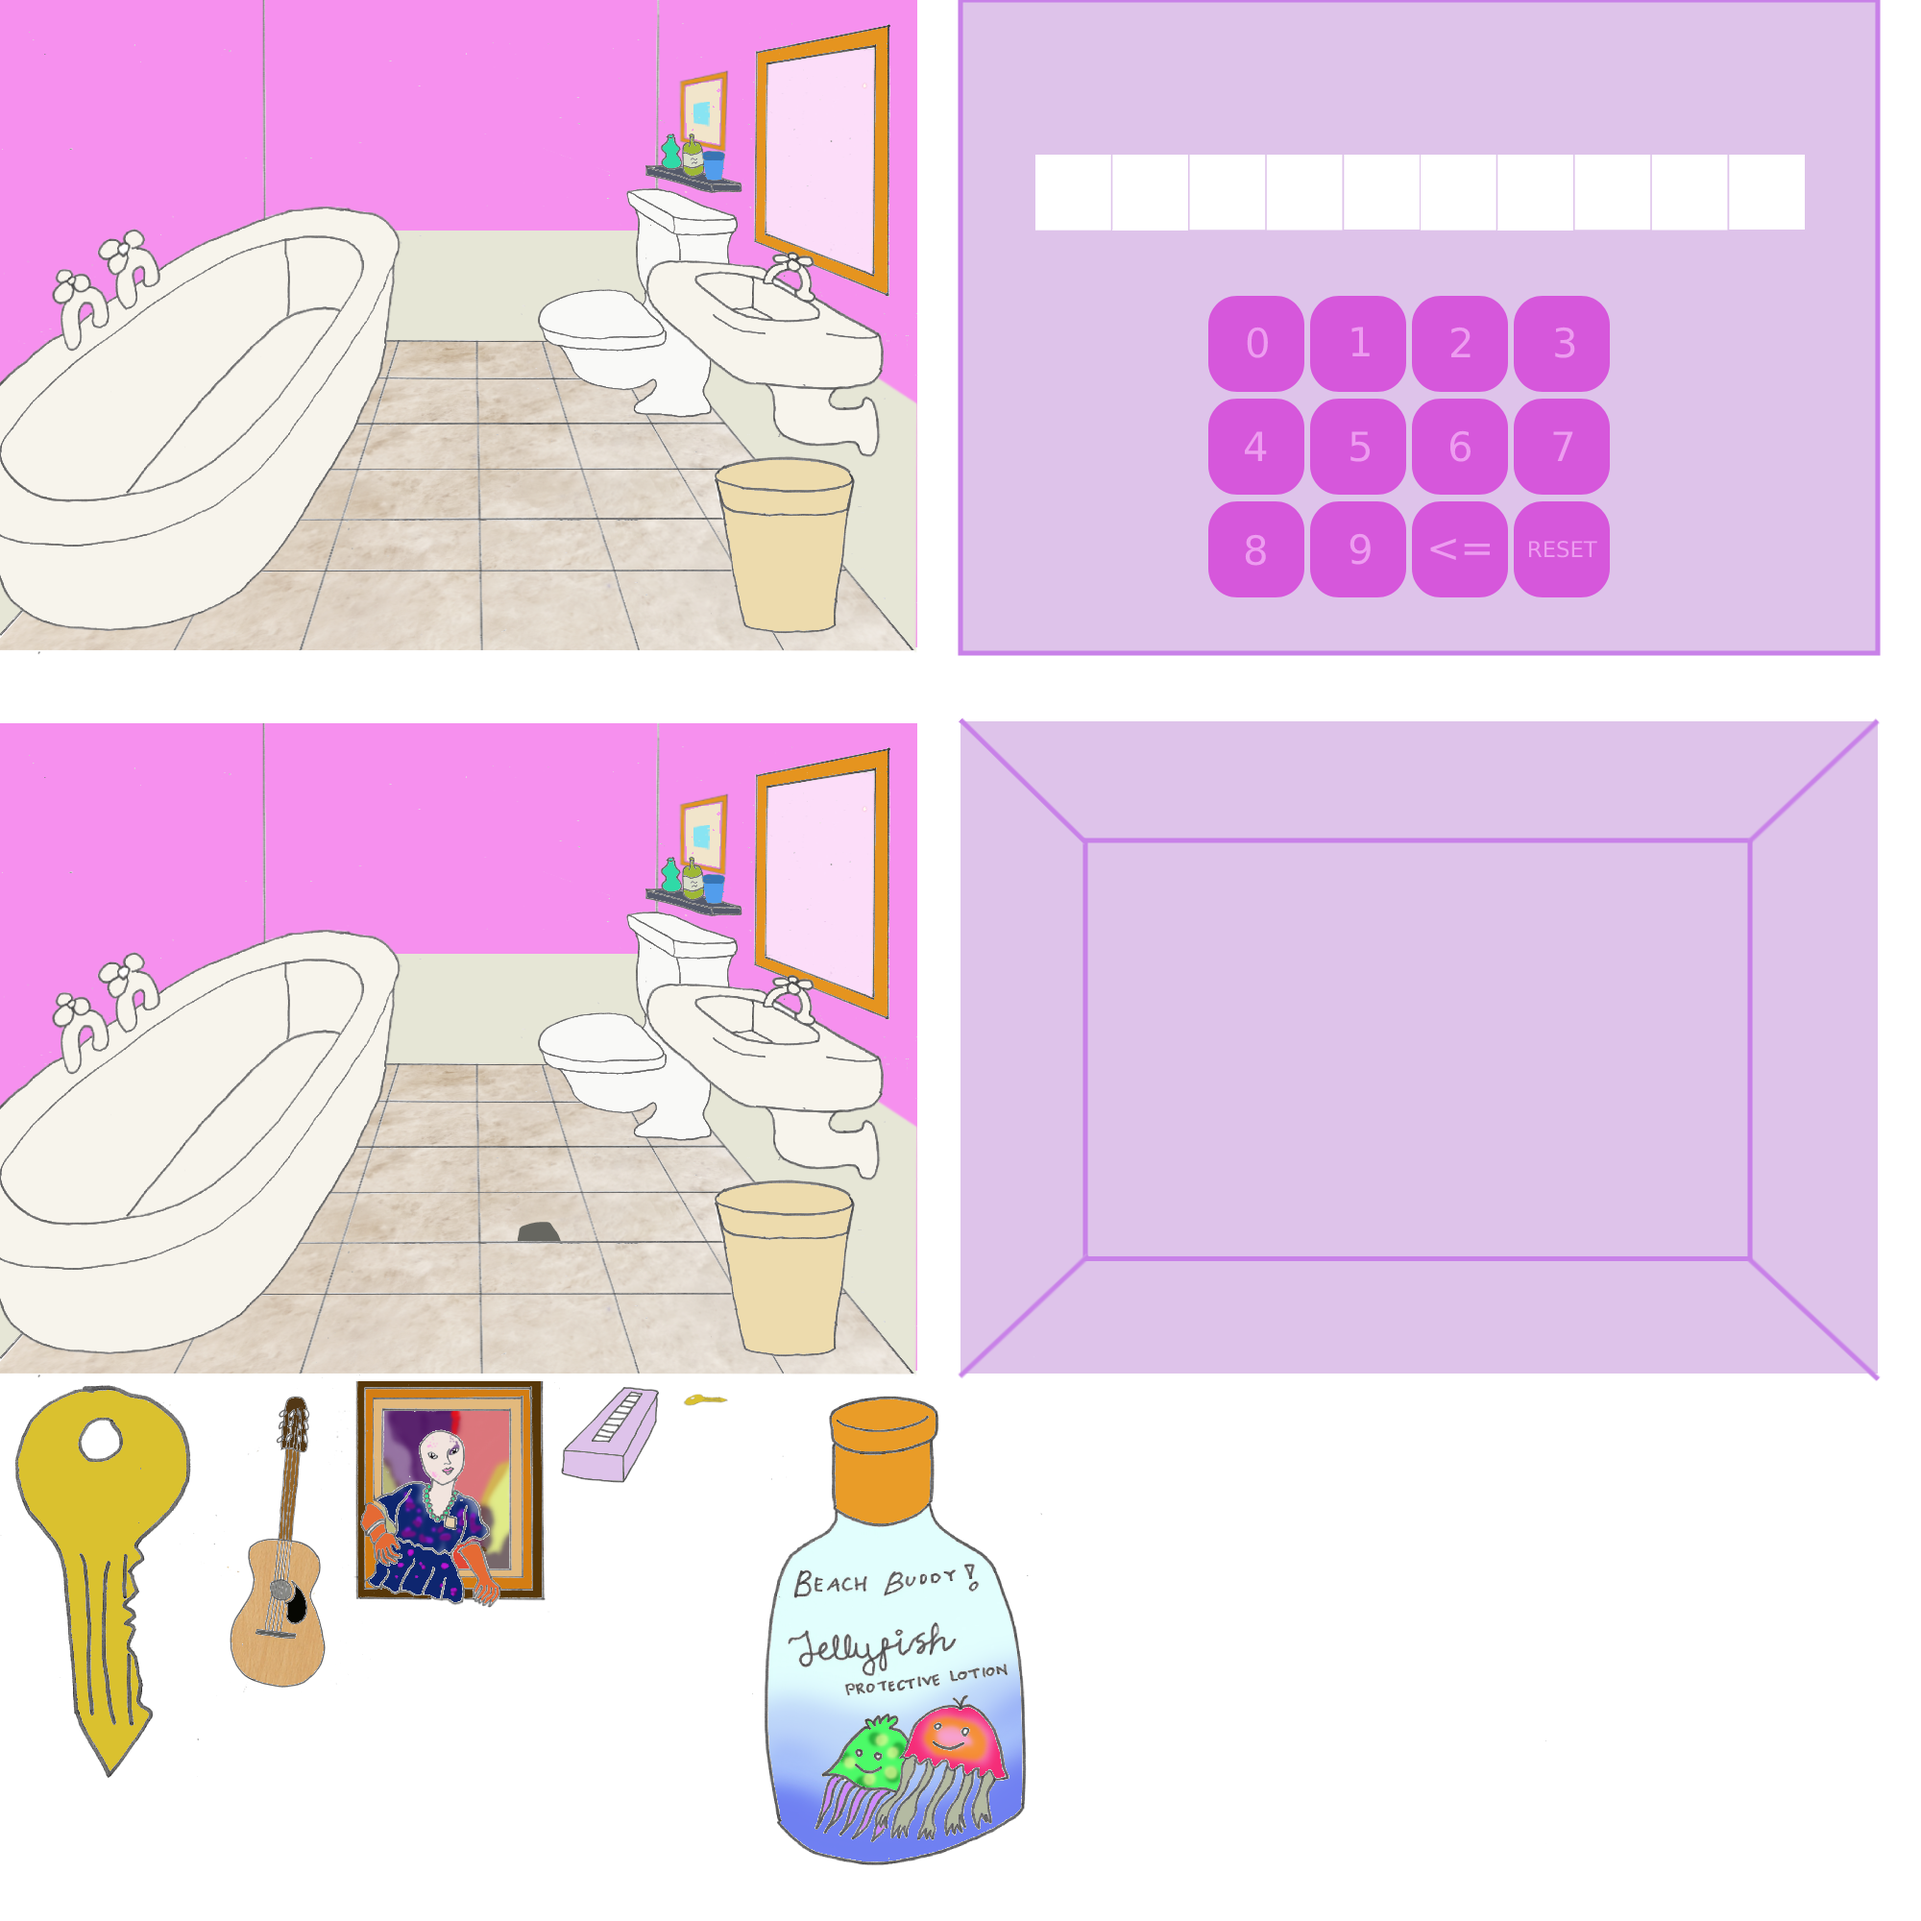
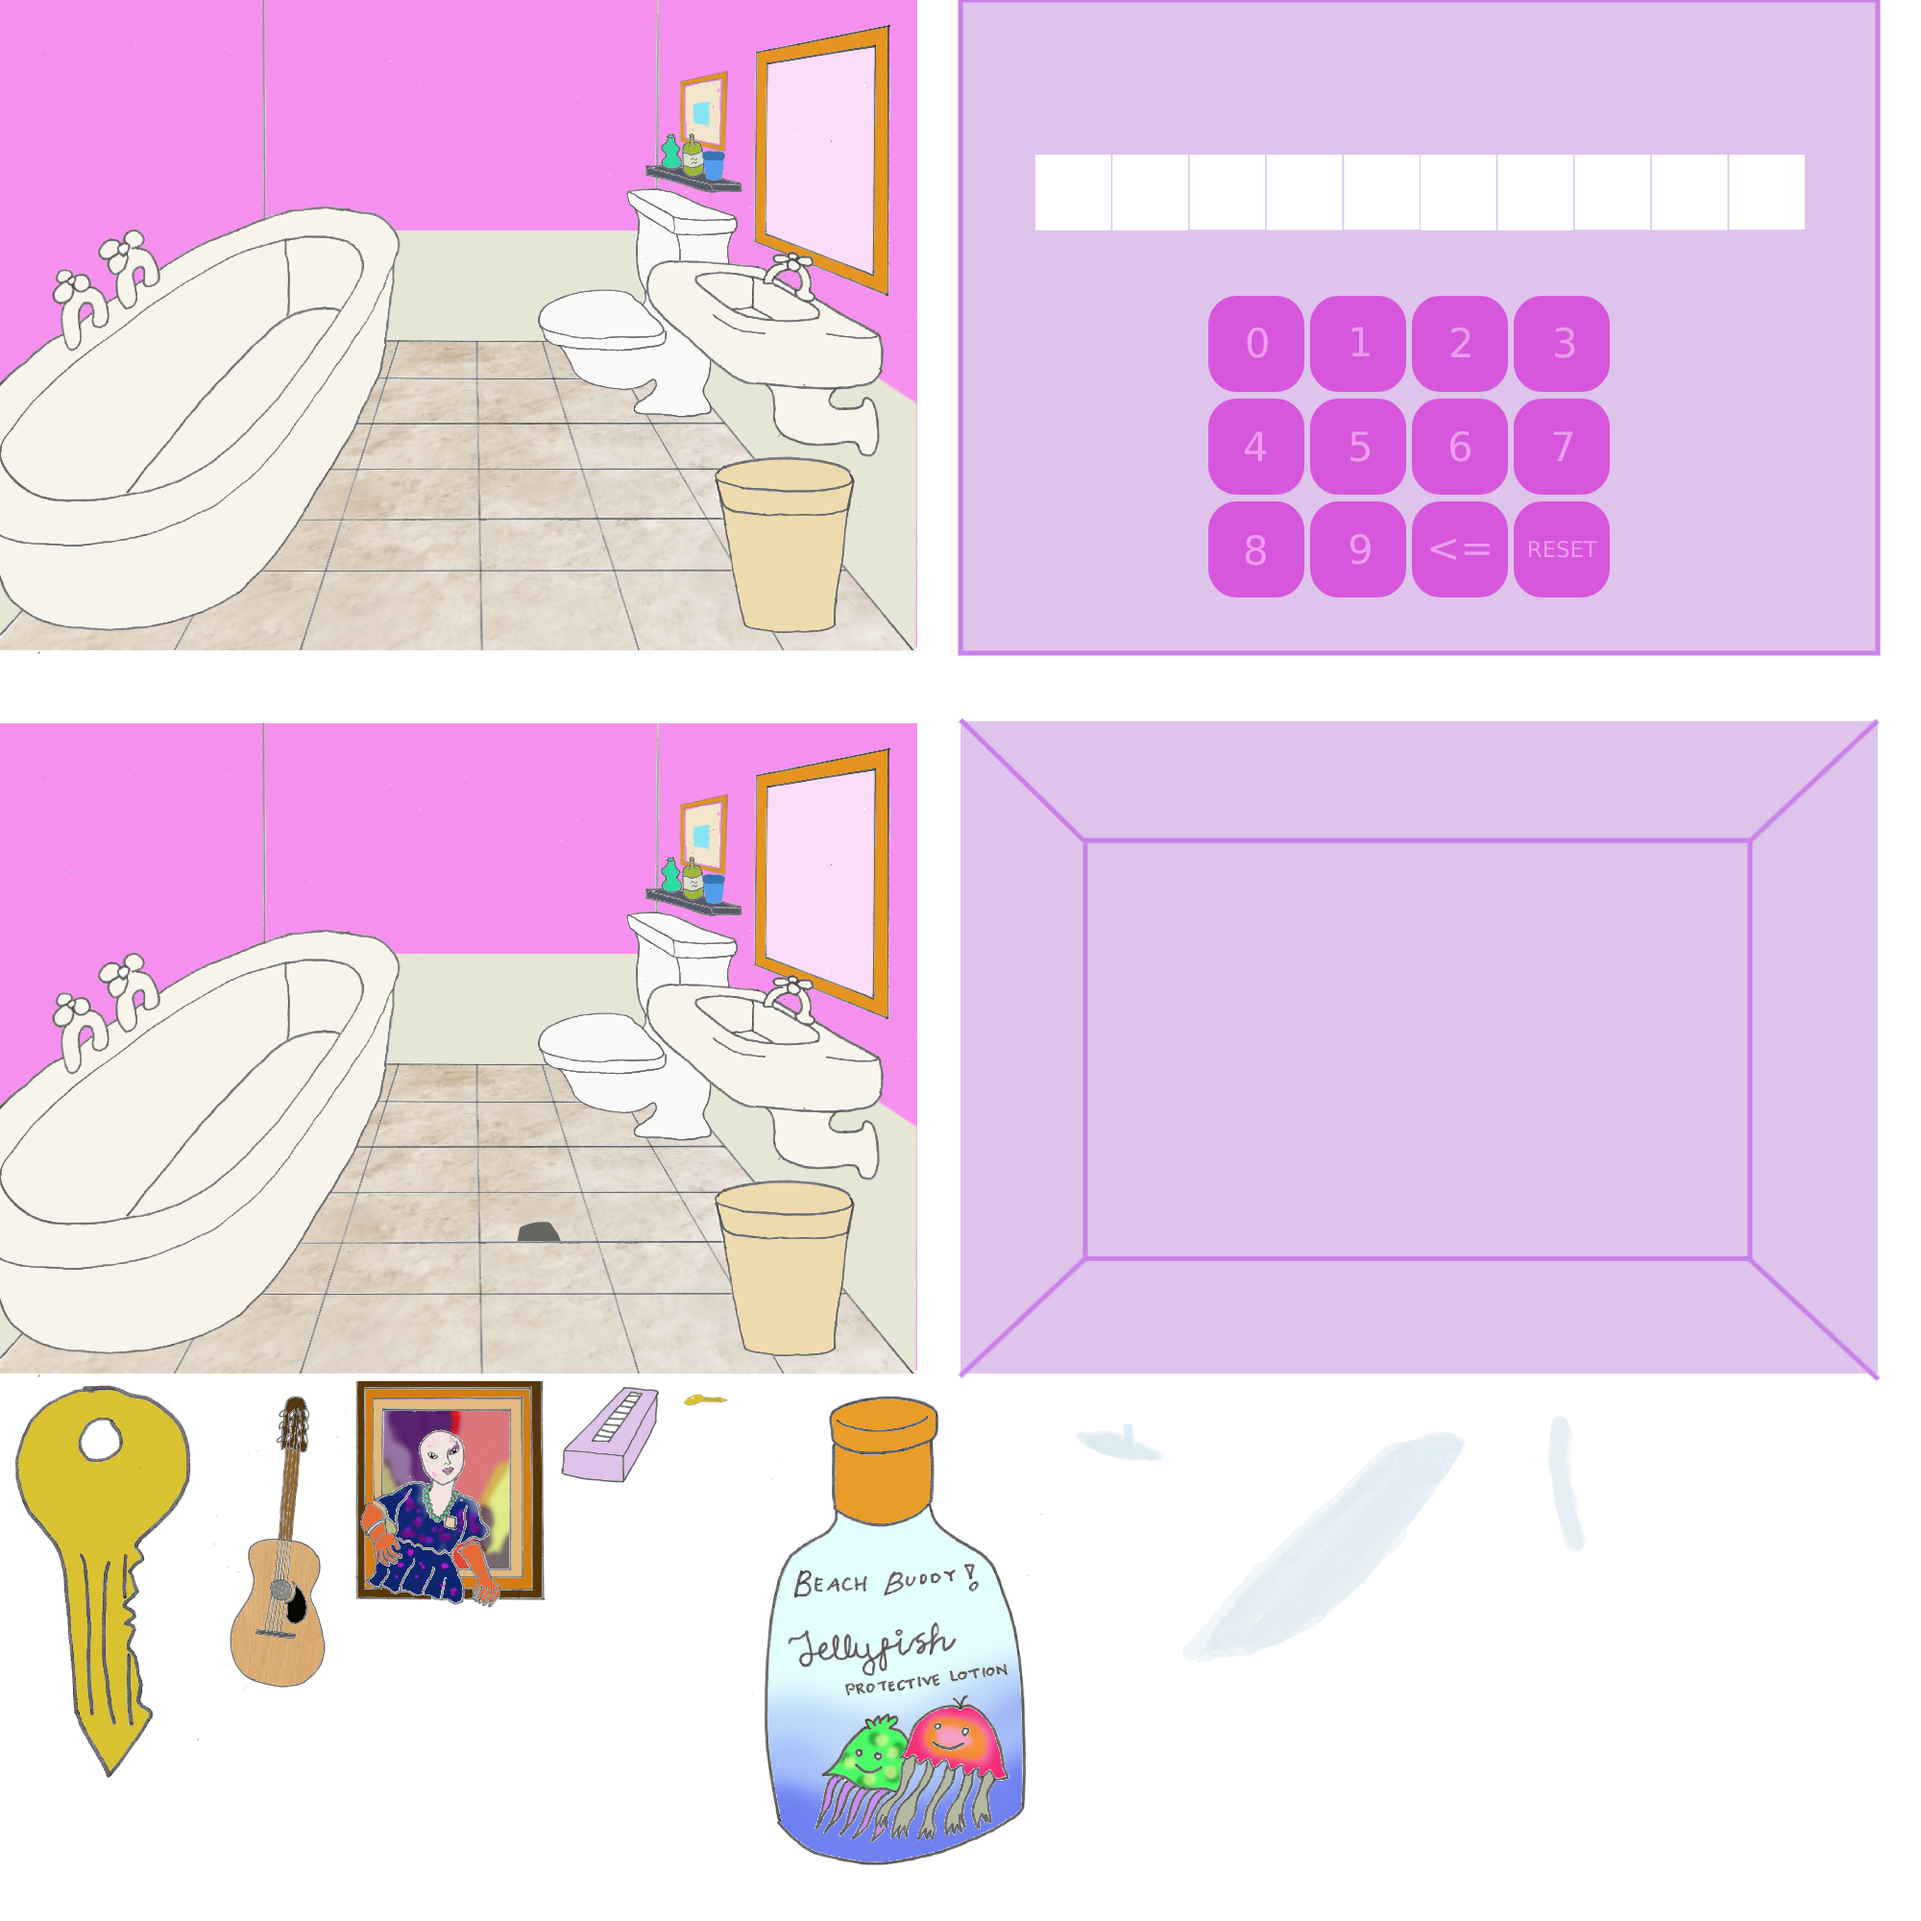
Add water animation

Changed region(s): [[0.62, 0.744, 0.775, 0.868], [0.806, 0.744, 0.837, 0.806], [0.558, 0.744, 0.589, 0.775]]

diff --git a/scripts/bathroomLoader.js b/scripts/bathroomLoader.js
@@ -66,6 +66,58 @@ function loadBathroom(tilesheet) {
       }
     }
   });
+  const tapWater = craftSprite({
+    ...base,
+    states: {
+      INITIAL: {
+        x: 738,
+        y: 288,
+        sourceWidth: 101,
+        sourceHeight: 52,
+        sourceX: 1112,
+        sourceY: 1474,
+      }
+    }
+  });
+  const bathtubWater = craftSprite({
+    ...base,
+    states: {
+      INITIAL: {
+        x: 70,
+        y: 258,
+        sourceX: 1221,
+        sourceY: 1467,
+        sourceWidth: 312,
+        sourceHeight: 275,
+      }
+    }
+  });
+  const leftWaterFlow = craftSprite({
+    ...base,
+    states: {
+      INITIAL: {
+        x: 90,
+        y: 338,
+        sourceX: 1610,
+        sourceY: 1471,
+        sourceWidth: 44,
+        sourceHeight: 147,
+      }
+    }
+  });
+  const rightWaterFlow = craftSprite({
+    ...base,
+    states: {
+      INITIAL: {
+        x: 145,
+        y: 295,
+        sourceX: 1610,
+        sourceY: 1471,
+        sourceWidth: 44,
+        sourceHeight: 147,
+      }
+    }
+  });
   return [
     {
       ...base,
@@ -77,6 +129,44 @@ function loadBathroom(tilesheet) {
         ) {
           gameState.layers[gameState.currentRoom].sprites.push(key);
           this.state = this.FINAL;
+          return true;
+        }
+        if (isWithinRectBounds(x, y, 794, 257, 57, 60)) {
+          const water = gameState.layers[gameState.currentRoom].sprites.find(sprite => sprite === tapWater);
+          if (water) {
+            removeOnce(gameState.layers[gameState.currentRoom].sprites, water);
+          } else {
+            gameState.layers[gameState.currentRoom].sprites.push(tapWater);
+          }
+          return true;
+        }
+        const hasLeftWaterFlow = gameState.layers[gameState.currentRoom].sprites.includes(leftWaterFlow);
+        const hasRightWaterFlow = gameState.layers[gameState.currentRoom].sprites.includes(rightWaterFlow);
+        if (isWithinRectBounds(x, y, 53, 279, 61, 89)) {
+          if (hasLeftWaterFlow) {
+            removeOnce(gameState.layers[gameState.currentRoom].sprites, leftWaterFlow);
+            if (!hasRightWaterFlow) {
+              removeOnce(gameState.layers[gameState.currentRoom].sprites, bathtubWater);
+            }
+          } else {
+            gameState.layers[gameState.currentRoom].sprites.push(leftWaterFlow);
+            if (!hasRightWaterFlow) {
+              gameState.layers[gameState.currentRoom].sprites.push(bathtubWater);
+            }
+          }
+          return true;
+        } else if (isWithinRectBounds(x, y, 115, 241, 53, 82)) {
+          if (hasRightWaterFlow) {
+            removeOnce(gameState.layers[gameState.currentRoom].sprites, rightWaterFlow);
+            if (!hasLeftWaterFlow) {
+              removeOnce(gameState.layers[gameState.currentRoom].sprites, bathtubWater);
+            }
+          } else {
+            gameState.layers[gameState.currentRoom].sprites.push(rightWaterFlow);
+            if (!hasLeftWaterFlow) {
+              gameState.layers[gameState.currentRoom].sprites.push(bathtubWater);
+            }
+          }
           return true;
         }
       },
@@ -228,5 +318,5 @@ function loadBathroom(tilesheet) {
         }
       }
     },
-  ].map(sprite => craftSprite(sprite));
+  ].map(sprite => craftSprite(sprite)).concat(leftWaterFlow, rightWaterFlow, bathtubWater);
 }

diff --git a/scripts/kitchenLoader.js b/scripts/kitchenLoader.js
@@ -14,6 +14,29 @@ function loadKitchen(tilesheet) {
       }
     }
   });
+  const waterDroplet = craftSprite({
+    ...base,
+    update: function(gameState) {
+      if (this[this.state].y >= 300) {
+        this[this.state].y = this[this.state].defaultY;
+      } else {
+        this[this.state].y += 0.2;
+      }
+      return true;
+    },
+    states: {
+      INITIAL: {
+        sourceX: 2760,
+        sourceY: 1262,
+        sourceWidth: 57,
+        sourceHeight: 116,
+        x: 507,
+        y: 279,
+        scale: 0.15,
+        defaultY: 279,
+      }
+    }
+  });
   return [
     { // Kitchen background
       ...base,
@@ -51,11 +74,20 @@ function loadKitchen(tilesheet) {
           gameState.examinedInventoryItem = hat;
           return true;
         }
+        if (isWithinRectBounds(x, y, 500, 224, 60, 55)) {
+          if (this[this.state].sprites.length > 0) {
+            this[this.state].sprites = [];
+          } else {
+            this[this.state].sprites.push(waterDroplet);
+          }
+          return true;
+        }
       },
       states: {
         INITIAL: {
           sourceWidth: 955,
           sourceHeight: 677,
+          sprites: [],
         },
       }
     },

diff --git a/gameLauncher.js b/gameLauncher.js
@@ -317,8 +317,6 @@ function launch() {
 
   function renderSubtitle() {
     if (gameState.subtitle.trim().length > 0) {
-      console.log(canvas.width - subtitleBox.padding * 2);
-      
       ctx.font = `bold ${subtitleBox.fontSize}px Arial`;
       const lines = getLines(ctx, gameState.subtitle, canvas.width - subtitleBox.padding * 2);
       const height = subtitleBox.calcHeight(lines);
